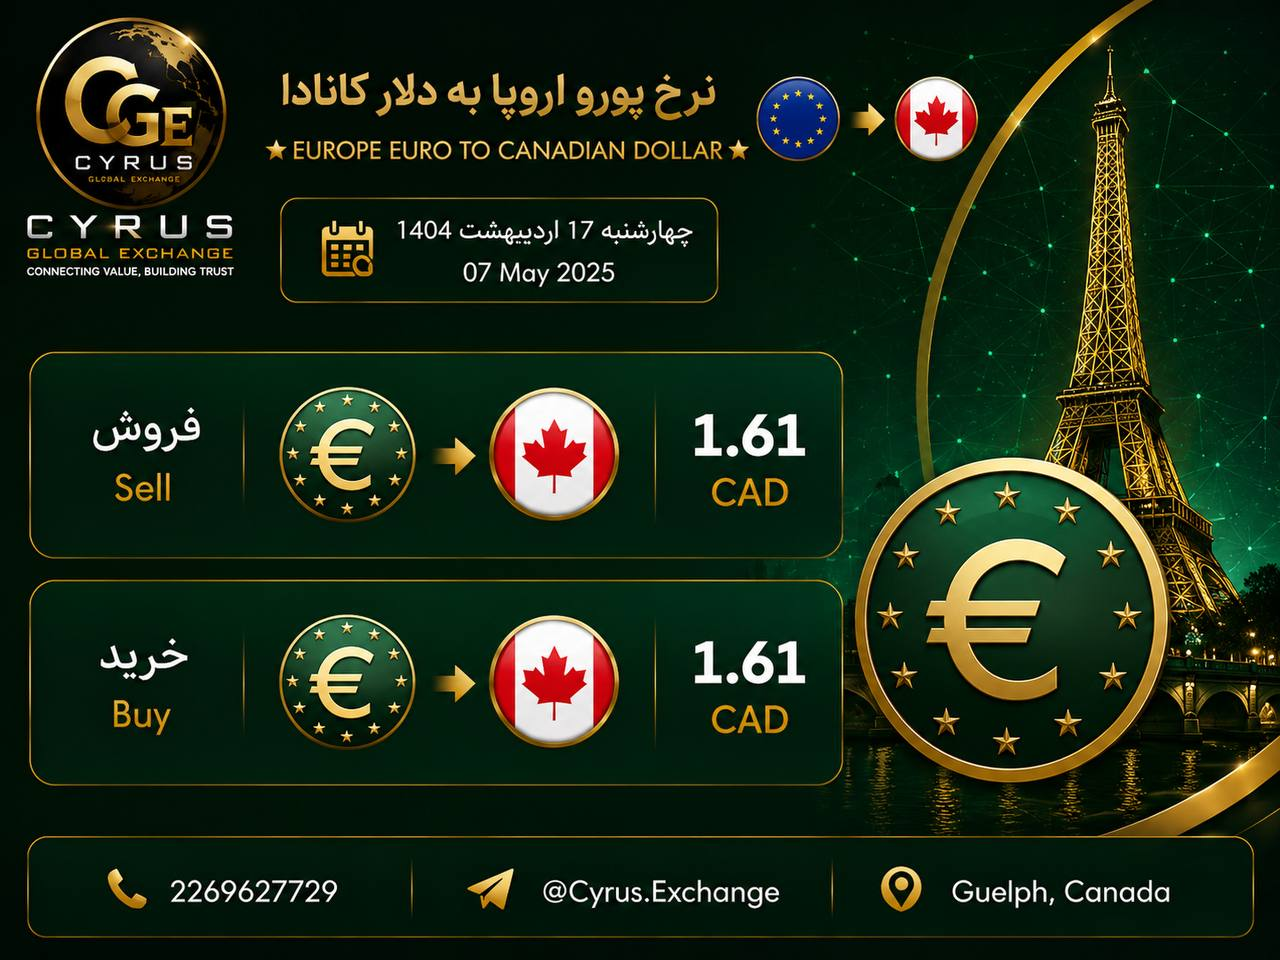
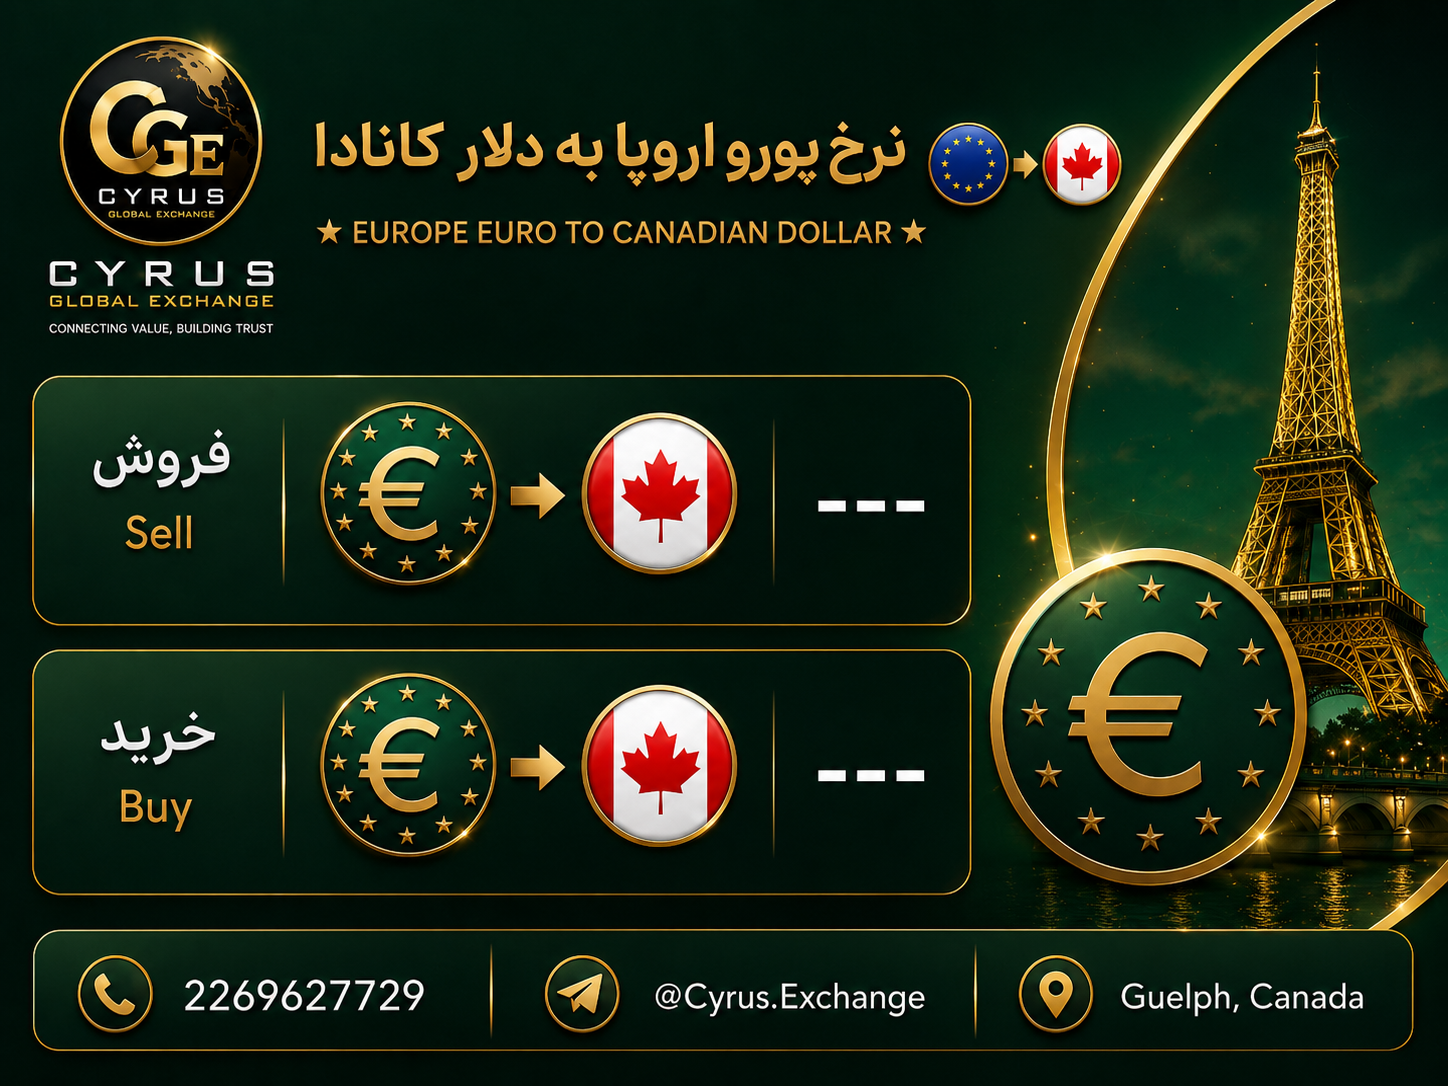
feat: new 1448×1086 poster templates with clean price/date rendering
- Rewrite poster_coordinates.json for new template size (1280×960 →
  1448×1086); replace date_box with date_overlay in all five currencies
- Add _erase_price_digits(): samples darkest background pixels and fills
  a tight 3px-inset strip to remove baked-in placeholder prices without
  leaving dark rectangles or sticker halos
- Add generate_logo_daily(): writes Persian/Gregorian dates directly into
  the logo template's built-in date cells (clean_bg=True); no gradient
  overlay, no black patch
- Fix posting order: logo_daily → CAD → USD → USA/CAN → USDT → EUR
- Drop draw_date_box border+clean_bg in smart_text_engine (no rectangle
  drawn on date overlay); shadows reduced to 1px/alpha-90

Verified clean in production: 6 images posted (message_ids 638–643).

diff --git a/rate_graphic_publisher.py b/rate_graphic_publisher.py
@@ -6,7 +6,7 @@ Price Rules:
   - Cyrus SELL = Bahmani SELL  (exactly the same, no adjustment)
   - Cyrus BUY  = Bahmani BUY + 500 تومان
 
-Poster order: CAD → USD → EUR → USDT → USACAN
+Poster order: logo_daily → CAD → USD → USA/CAN → USDT → EUR
 Missing OCR data → poster still generated with --- placeholders.
 Only skipped if template file itself is missing.
 """
@@ -33,7 +33,16 @@ except ImportError:
     HAS_BIDI = False
     logging.warning("arabic-reshaper / python-bidi not installed")
 
-from smart_text_engine import draw_date_box as _smart_draw_date_box, qc_date_fit as _smart_qc_date
+from smart_text_engine import (
+    draw_date_box as _smart_draw_date_box,
+    qc_date_fit as _smart_qc_date,
+    fit_text_inside_box as _fit_text,
+    get_today_date_lines as _get_date_lines,
+)
+
+FONT_BOLD_FA = "/usr/share/fonts/truetype/noto/NotoNaskhArabic-Bold.ttf"
+COLOR_FA     = (242, 222, 148, 255)   # gold — Persian lines
+COLOR_EN     = (210, 190, 120, 255)   # slightly dimmer — Gregorian
 
 try:
     import jdatetime
@@ -73,6 +82,8 @@ TEMPLATES = {
     "USACAN": ASSETS_DIR / "updated_cyrus_exchange_usacan_poster.png",
 }
 
+LOGO_TEMPLATE = ASSETS_DIR / "logo.png"
+
 COORDS_FILE   = Path("/var/www/exchange_bot/poster_coordinates.json")
 QC_REPORT_DIR = Path("/var/www/exchange_bot/qc_reports")
 
@@ -84,12 +95,13 @@ def _load_coords() -> dict:
 
 POSTER_COORDS: dict = _load_coords()
 
+# logo_daily publishes first; currency posters follow in this order
 PUBLISH_ORDER = [
     ("CAD",    "دلار کانادا",  "Canada"),
     ("USD",    "دلار آمریکا", "USA"),
-    ("EUR",    "یورو",         "Europe"),
-    ("USDT",   "تتر (USDT)",   "USDT"),
     ("USACAN", "دلار آمریکا / کانادا", "USA/CAN"),
+    ("USDT",   "تتر (USDT)",   "USDT"),
+    ("EUR",    "یورو",         "Europe"),
 ]
 
 logging.basicConfig(
@@ -176,15 +188,50 @@ def _save_qc_error(currency: str, errors: list, toronto_now: datetime):
 
 # ─── Poster generator ─────────────────────────────────────────────────────────
 
+def _erase_price_digits(draw: ImageDraw.ImageDraw, px_rgb, box: list) -> tuple:
+    """
+    Erase old placeholder price digits from the template.
+    Samples the darkest (background) pixels in the box and fills the inner
+    text strip with that colour — preserving row borders and edge glow.
+    Returns the sampled background colour as (r, g, b).
+    """
+    x1, y1, x2, y2 = [int(v) for v in box]
+    pad_v = 3   # minimal inset — preserves row border/glow, clears all digit pixels
+    inner_y1 = y1 + pad_v
+    inner_y2 = y2 - pad_v
+    if inner_y2 <= inner_y1:
+        inner_y1, inner_y2 = y1, y2
+
+    samples = []
+    for sy in range(y1, y2, 3):
+        for sx in range(x1, x2, 8):
+            try:
+                r, g, b = px_rgb[sx, sy]
+                samples.append((r + g + b, r, g, b))
+            except Exception:
+                pass
+    if not samples:
+        return (10, 10, 20)
+    samples.sort()
+    dark = samples[: max(1, len(samples) // 3)]
+    bg = (
+        sum(s[1] for s in dark) // len(dark),
+        sum(s[2] for s in dark) // len(dark),
+        sum(s[3] for s in dark) // len(dark),
+    )
+    draw.rectangle([x1 + 3, inner_y1, x2 - 3, inner_y2], fill=(*bg, 255))
+    return bg
+
+
 def _write_in_box(draw, px_rgb, box: list, text: str, font_path: str,
                   text_color: tuple, max_font: int = 80, min_font: int = 14):
-    """Clear box, sample bg, center-write text. Shrinks font until text fits."""
+    """
+    Erase old template digits, then center-write new text inside box.
+    Preserves original poster texture — no large black rectangles.
+    """
     x1, y1, x2, y2 = box
     zone_w = x2 - x1
     zone_h = y2 - y1
-
-    bg = sample_zone_bg(px_rgb, y1, y2, x1, x2)
-    draw.rectangle([x1, y1, x2, y2], fill=(*bg, 255))
 
     font_size = min(max_font, max(min_font, int(zone_h * 0.60)))
     font      = load_font(font_path, font_size)
@@ -201,7 +248,11 @@ def _write_in_box(draw, px_rgb, box: list, text: str, font_path: str,
     tx = x1 + (zone_w - tw) // 2
     ty = y1 + (zone_h - th) // 2
 
-    draw.text((tx + 1, ty + 1), text, font=font, fill=(0, 0, 0, 150))
+    # Erase old template digits (tight inner strip, background-coloured)
+    bg = _erase_price_digits(draw, px_rgb, box)
+
+    # Subtle 1-px shadow + clean main text — no dark rectangle effect
+    draw.text((tx + 1, ty + 1), text, font=font, fill=(0, 0, 0, 90))
     draw.text((tx,     ty),     text, font=font, fill=text_color)
     return font_size, bg
 
@@ -280,15 +331,30 @@ def generate_single_poster(currency: str, cur_name_fa: str,
                                FONT_BOLD_EN, (255, 255, 255, 255))
         log.info(f"  [{currency}] BUY='{buy_str}'  box={box} font={fs}px bg={bg}")
 
-    # ── 2. Date — smart fitting engine, strictly inside date_box ────────────
-    date_box = coords.get("date_box")
-    if date_box:
-        layout = _smart_draw_date_box(img, date_box, currency, toronto_now, debug=False)
-        qc_ok, qc_errors, qc_score = _smart_qc_date(layout, date_box, toronto_now, currency)
-        log.info(f"[{currency}] Date QC score={qc_score:.0f}%")
-        if not qc_ok:
-            _save_qc_error(currency, qc_errors, toronto_now)
-            return None
+    # ── 2. Date — rendered as clean overlay in header area ──────────────────
+    date_overlay = coords.get("date_overlay")
+    if date_overlay:
+        date_data = _get_date_lines(toronto_now)
+        _fit_text(
+            img,
+            date_overlay,
+            date_data["lines"],
+            date_data["font_paths"],
+            date_data["colors"],
+            align="center",
+            vertical_align="center",
+            min_font_size=12,
+            max_font_size=52,
+            padding_x=24,
+            padding_y=8,
+            line_spacing=5,
+            rtl_lines=date_data["rtl_lines"],
+            shadow=True,
+            border_color=None,
+            border_width=0,
+            clean_bg=False,
+        )
+        log.info(f"[{currency}] Date overlay rendered in {date_overlay}")
 
     # ── 3. Save ────────────────────────────────────────────────────────────
     ts_str   = toronto_now.strftime("%Y-%m-%d-%H%M")
@@ -296,6 +362,92 @@ def generate_single_poster(currency: str, cur_name_fa: str,
     img.convert("RGB").save(str(out_path), "PNG")
     log.info(f"[{currency}] Saved → {out_path}")
     return out_path
+
+
+# ─── Logo daily poster ────────────────────────────────────────────────────────
+
+def generate_logo_daily(toronto_now: datetime) -> Path | None:
+    """
+    Generate the daily logo poster.
+    Writes the actual dates into the logo template's built-in date cells.
+    No dark gradient overlay, no black patch, no rectangles.
+    Published as the very first image in every posting cycle.
+    """
+    GENERATED_DIR.mkdir(parents=True, exist_ok=True)
+
+    if not LOGO_TEMPLATE.exists():
+        log.error(f"[logo_daily] Logo template missing: {LOGO_TEMPLATE}")
+        return None
+
+    try:
+        img = Image.open(LOGO_TEMPLATE).convert("RGBA")
+        w, h = img.size   # 1254×1254
+
+        date_data = _get_date_lines(toronto_now)
+
+        # ── Logo template has two built-in date cells (gold-bordered dark boxes)
+        # Row 1 right cell: "YYYY/MM/DD" placeholder → write Persian date
+        # Row 2 right cell: "DD/MM/YYYY" placeholder → write Gregorian date
+        # Cell positions measured from the 1254×1254 template via OCR.
+        shamsi_cell    = [637, 948, 960, 1058]   # right cell of Shamsi row
+        gregorian_cell = [637, 1058, 960, 1168]  # right cell of Gregorian row
+
+        # Shamsi row: weekday on top line, numeric Shamsi on second line
+        _fit_text(
+            img,
+            shamsi_cell,
+            [date_data["weekday"], date_data["shamsi"]],
+            [FONT_BOLD_FA, FONT_BOLD_FA],
+            [COLOR_FA, COLOR_FA],
+            align="center",
+            vertical_align="center",
+            min_font_size=14,
+            max_font_size=44,
+            padding_x=12,
+            padding_y=8,
+            line_spacing=4,
+            rtl_lines=[True, True],
+            shadow=True,
+            border_color=None,
+            border_width=0,
+            clean_bg=True,    # erase "YYYY/MM/DD" placeholder first
+        )
+
+        # Gregorian row: single line, English
+        _fit_text(
+            img,
+            gregorian_cell,
+            [date_data["gregorian"]],
+            [FONT_BOLD_EN],
+            [COLOR_EN],
+            align="center",
+            vertical_align="center",
+            min_font_size=14,
+            max_font_size=44,
+            padding_x=12,
+            padding_y=10,
+            line_spacing=0,
+            rtl_lines=[False],
+            shadow=True,
+            border_color=None,
+            border_width=0,
+            clean_bg=True,    # erase "DD/MM/YYYY" placeholder first
+        )
+
+        log.info(
+            f"[logo_daily] Date → '{date_data['weekday']}' / "
+            f"'{date_data['shamsi']}' / '{date_data['gregorian']}'"
+        )
+
+        ts_str   = toronto_now.strftime("%Y-%m-%d-%H%M")
+        out_path = GENERATED_DIR / f"{ts_str}-logo_daily.png"
+        img.convert("RGB").save(str(out_path), "PNG")
+        log.info(f"[logo_daily] Saved → {out_path}")
+        return out_path
+
+    except Exception as exc:
+        log.error(f"[logo_daily] Generation failed: {exc}", exc_info=True)
+        return None
 
 
 # ─── Rate extraction ──────────────────────────────────────────────────────────
@@ -659,10 +811,20 @@ async def scan_and_post(client: TelegramClient, force: bool = False):
         return
 
     reason = "forced" if force else "rates changed"
-    log.info(f"Generating {len(PUBLISH_ORDER)} posters ({reason})")
+    log.info(f"Generating logo_daily + {len(PUBLISH_ORDER)} posters ({reason})")
 
     posted_ids = []
     try:
+        # ── 0. Logo daily — always first ─────────────────────────────────────
+        logo_path = generate_logo_daily(toronto_now)
+        if logo_path:
+            logo_mid = post_to_channel(logo_path)
+            posted_ids.append(("logo_daily", logo_mid))
+            await asyncio.sleep(2)
+        else:
+            log.warning("[logo_daily] Generation failed — skipping logo post")
+
+        # ── 1-5. Currency rate posters ────────────────────────────────────────
         for cur_code, cur_name_fa, cur_name_en in PUBLISH_ORDER:
             prices = adjusted.get(cur_code, {})
             buy    = prices.get("buy")
@@ -683,7 +845,7 @@ async def scan_and_post(client: TelegramClient, force: bool = False):
 
         if posted_ids:
             save_rates(adjusted, toronto_now)
-            log.info(f"=== Posted {len(posted_ids)} poster(s) ===")
+            log.info(f"=== Posted {len(posted_ids)} image(s) ===")
             for cur, mid in posted_ids:
                 log.info(f"  {cur}: Telegram message_id={mid}")
         else:

diff --git a/smart_text_engine.py b/smart_text_engine.py
@@ -408,9 +408,9 @@ def draw_date_box(
         line_spacing=spacing,
         rtl_lines=date_data["rtl_lines"],
         shadow=True,
-        border_color=BOX_BORDER_CLR,
-        border_width=BOX_BORDER_W,
-        clean_bg=True,
+        border_color=None,
+        border_width=0,
+        clean_bg=False,
         block_offset=y_offset,
     )
 
